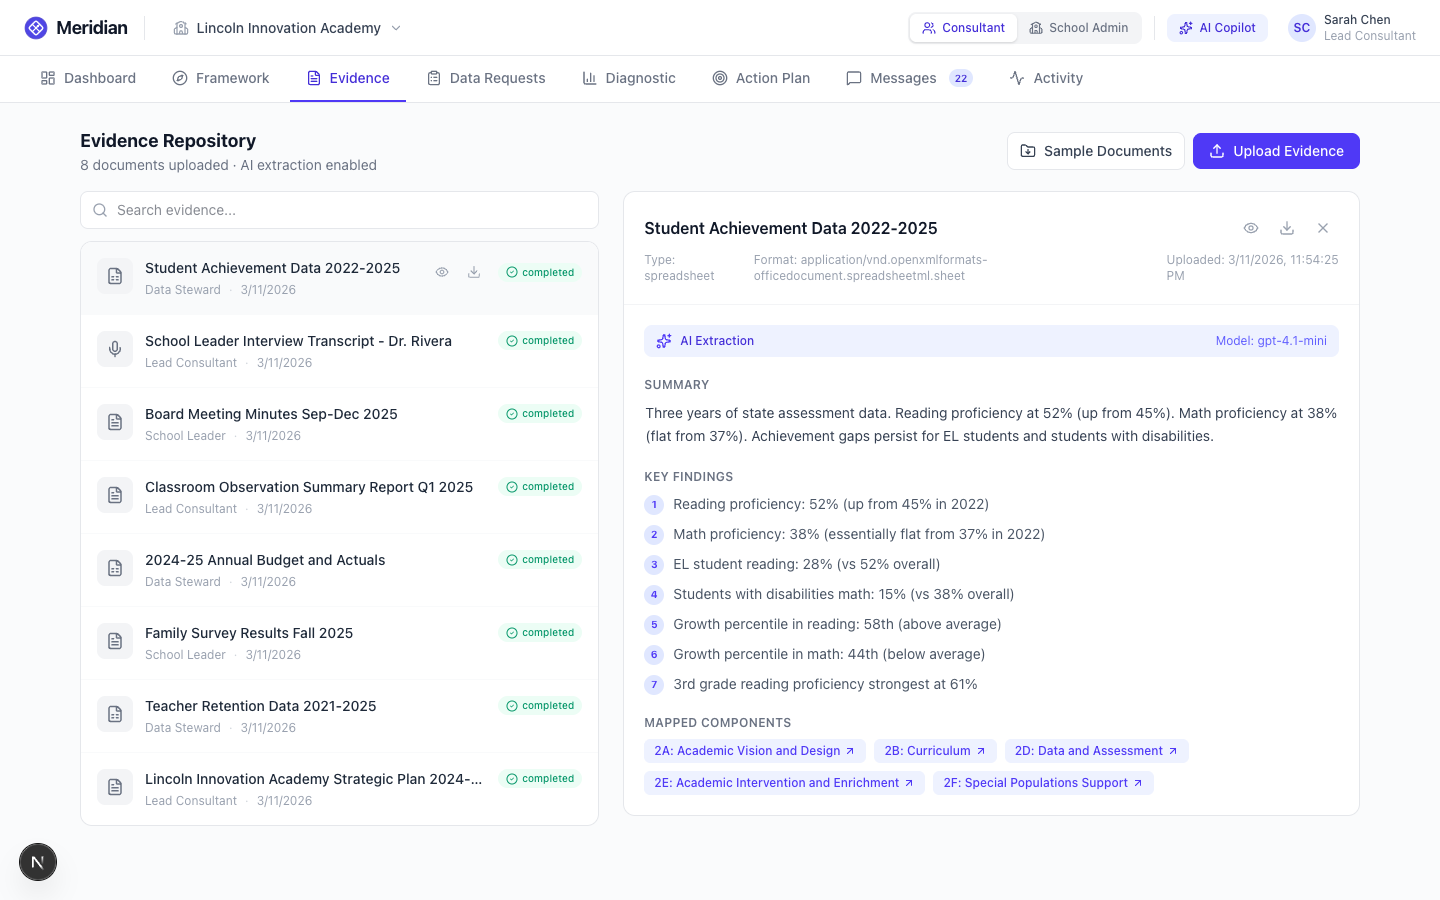
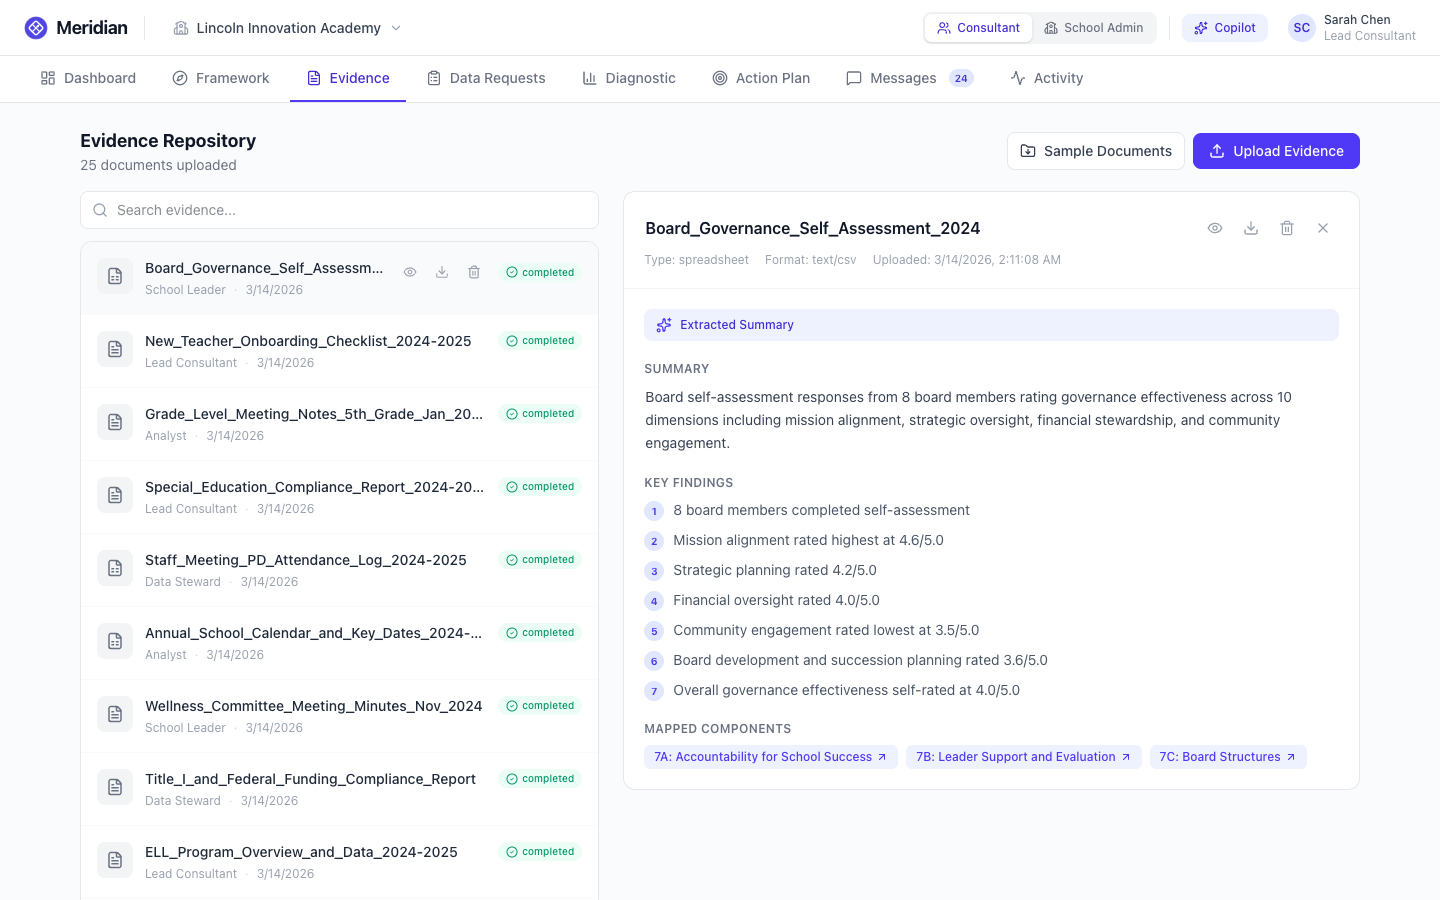
Update tour screenshots and docs for QoL improvements
- Recaptured all 23 screenshots from production (meridian.uptownnickbrown.com)
- Screenshots now show delete buttons, inline editing, new evidence badges,
  and other QoL features added in the previous commit
- Updated TOUR.md to document: evidence delete with stale cascading, data
  request inline editing (all fields), action item delete, channel/message
  delete, new evidence awareness badges (+N new), collapsible new evidence
  detail section, confirmation dialogs, and toast notifications
- Fixed Playwright scripts: updated BASE URL to use prod by default,
  fixed selectors for changed DOM elements (buttons→divs in list items)

diff --git a/TOUR.md b/TOUR.md
@@ -30,19 +30,19 @@ Selecting a component reveals its full success criteria, current score (if asses
 
 ### Evidence Repository
 
-All source documents live here — achievement data, interview transcripts, board minutes, observation reports, budgets, survey results, retention data, and strategic plans. Each document shows processing status and uploader.
+All source documents live here — achievement data, interview transcripts, board minutes, observation reports, budgets, survey results, retention data, and strategic plans. Each document shows processing status and uploader. Hover over any item to reveal preview, download, and delete actions.
 
 <img src="screenshots/03_evidence_list.png" width="800" alt="Evidence repository listing uploaded documents">
 
-Selecting a document reveals its **AI extraction** — a structured summary and numbered key findings generated automatically on upload. Both the summary and each key finding are editable in place. Preview and download buttons let consultants view the full document or grab the original file. Mapped components are shown as clickable links that navigate to the Framework view.
+Selecting a document reveals its **AI extraction** — a structured summary and numbered key findings generated automatically on upload. Both the summary and each key finding are editable in place. The document title is also editable inline. Preview, download, and delete buttons appear in the detail header. Mapped components are shown as clickable links that navigate to the Framework view. Deleting evidence automatically marks any component scores that relied on it as stale.
 
 <img src="screenshots/03b_evidence_detail.png" width="800" alt="AI extraction showing summary, key findings, and mapped components">
 
 ### Data Requests
 
-Consultants send structured data requests tied to specific framework components. Each request has a priority, assignee, status tracking, and a rationale ("Why this is needed"). Inline comment threads let consultants and school staff discuss each request in context. Conversations here are automatically synced to the Messages tab.
+Consultants send structured data requests tied to specific framework components. Each request has a priority, assignee, status tracking, and a rationale ("Why this is needed"). All fields — title, description, rationale, assignee, priority, and status — are editable inline in the detail panel. Click the priority or status badges to cycle through values. Requests can be deleted via the trash icon. Inline comment threads let consultants and school staff discuss each request in context. Conversations here are automatically synced to the Messages tab.
 
-<img src="screenshots/04_data_requests.png" width="800" alt="Data requests view with requests at various statuses">
+<img src="screenshots/04_data_requests.png" width="800" alt="Data requests view with inline editing and delete actions">
 
 ### Diagnostic Workspace
 
@@ -50,13 +50,17 @@ This is Meridian's core analytical tool, implementing the 4-layer AI architectur
 
 **Components (Layer 2)** — Each dimension row shows mini heatmap badges for its components. Expanding a dimension reveals individual component assessments with ratings, confidence levels, evidence counts, and "Assess" buttons to trigger AI scoring. The "Generate All Component Assessments" button runs AI assessment across all components at once, skipping those with no evidence and those that have been approved and locked.
 
+Components with new evidence uploaded since their last assessment show a blue **"+N new"** badge, making it easy to spot where re-assessment might be valuable. Components whose evidence was deleted show an amber **"Evidence removed"** indicator.
+
 <img src="screenshots/05_diagnostic_overview.png" width="800" alt="Diagnostic workspace showing all 9 dimensions with component badges">
 
-<img src="screenshots/05b_diagnostic_expanded.png" width="800" alt="Academic Program expanded showing component-level ratings">
+<img src="screenshots/05b_diagnostic_expanded.png" width="800" alt="Academic Program expanded showing component-level ratings with new evidence badges">
 
-Clicking a component opens its full assessment detail: strengths, gaps, contradictions, AI rationale (now with specific document citations and data points), and suggested actions. Every text field is editable in place. Thumbs up/down feedback lets consultants rate AI quality. The "Approve & Lock" button prevents regeneration until explicitly unlocked.
+Clicking a component opens its full assessment detail: strengths, gaps, contradictions, AI rationale (with specific document citations and data points), and suggested actions. Every text field is editable in place. Thumbs up/down feedback lets consultants rate AI quality. The "Approve & Lock" button prevents regeneration until explicitly unlocked.
 
-<img src="screenshots/05c_diagnostic_component_detail.png" width="800" alt="Component assessment detail with strengths, gaps, rationale, and actions">
+When new evidence is available, a collapsible **"New evidence since last assessment"** section appears at the top of the detail panel. Expanding it shows each new evidence item with its title, upload date, and relevance score — each clickable to navigate to the Evidence tab.
+
+<img src="screenshots/05c_diagnostic_component_detail.png" width="800" alt="Component assessment detail with new evidence section, strengths, gaps, and rationale">
 
 **Dimensions (Layer 3)** — Cross-component synthesis for each of the 9 dimensions. Identifies patterns, compounding risks, top opportunities, and leadership attention items. "Generate All Dimension Summaries" runs synthesis in batch.
 
@@ -70,7 +74,7 @@ Components with no mapped evidence show a clear "Insufficient Evidence" state in
 
 ### Action Plan
 
-Diagnostic findings translate into prioritized improvement actions. Each item has an owner, target date, status, and — critically — an **evidence-based rationale** tracing the recommendation back to specific assessment findings. Descriptions and rationale are editable in place. Cross-links navigate to the related component in the Framework or Diagnostic views.
+Diagnostic findings translate into prioritized improvement actions. Each item has an owner, target date, status, and — critically — an **evidence-based rationale** tracing the recommendation back to specific assessment findings. Descriptions and rationale are editable in place. Action items can be deleted via a hover trash icon. Cross-links navigate to the related component in the Framework or Diagnostic views.
 
 <img src="screenshots/06_action_plan.png" width="800" alt="Action plan with prioritized improvement items">
 
@@ -82,7 +86,7 @@ Selecting an action item opens a detail panel with the full description, evidenc
 
 A Slack-style messaging experience for engagement communication. The sidebar is split into **Channels** (general discussion, document review, leadership prep) and **Data Requests** (conversations from data request threads, automatically synced).
 
-Features include channel creation, @mentions with a member dropdown (type `@` to trigger), message grouping for consecutive messages from the same author, day separators, and relative timestamps. Data request threads show a banner linking back to the request in the Data Requests tab.
+Features include channel creation and deletion, @mentions with a member dropdown (type `@` to trigger), message grouping for consecutive messages from the same author, day separators, relative timestamps, and per-message delete on hover. Data request threads show a banner linking back to the request in the Data Requests tab.
 
 Users can also type `@Meridian AI` in any chat to invoke the AI copilot inline. The AI responds with formatted markdown, can create data requests, and its responses appear with a distinctive sparkle avatar and AI badge.
 
@@ -133,6 +137,12 @@ Data requests show the same request details and comment threads, with role-appro
 <img src="screenshots/10d_admin_data_requests.png" width="800" alt="School admin data requests view">
 
 <img src="screenshots/10e_admin_messages.png" width="800" alt="School admin messaging view">
+
+---
+
+## Delete Operations & Feedback
+
+All destructive actions (deleting evidence, data requests, channels, messages, and action items) show a confirmation dialog before proceeding. Success and error feedback appears as toast notifications in the bottom-right corner. Evidence deletion cascades intelligently — extractions and mappings are removed, but affected component scores are preserved and marked as stale rather than deleted, so consultants can see what needs re-assessment.
 
 ---
 
